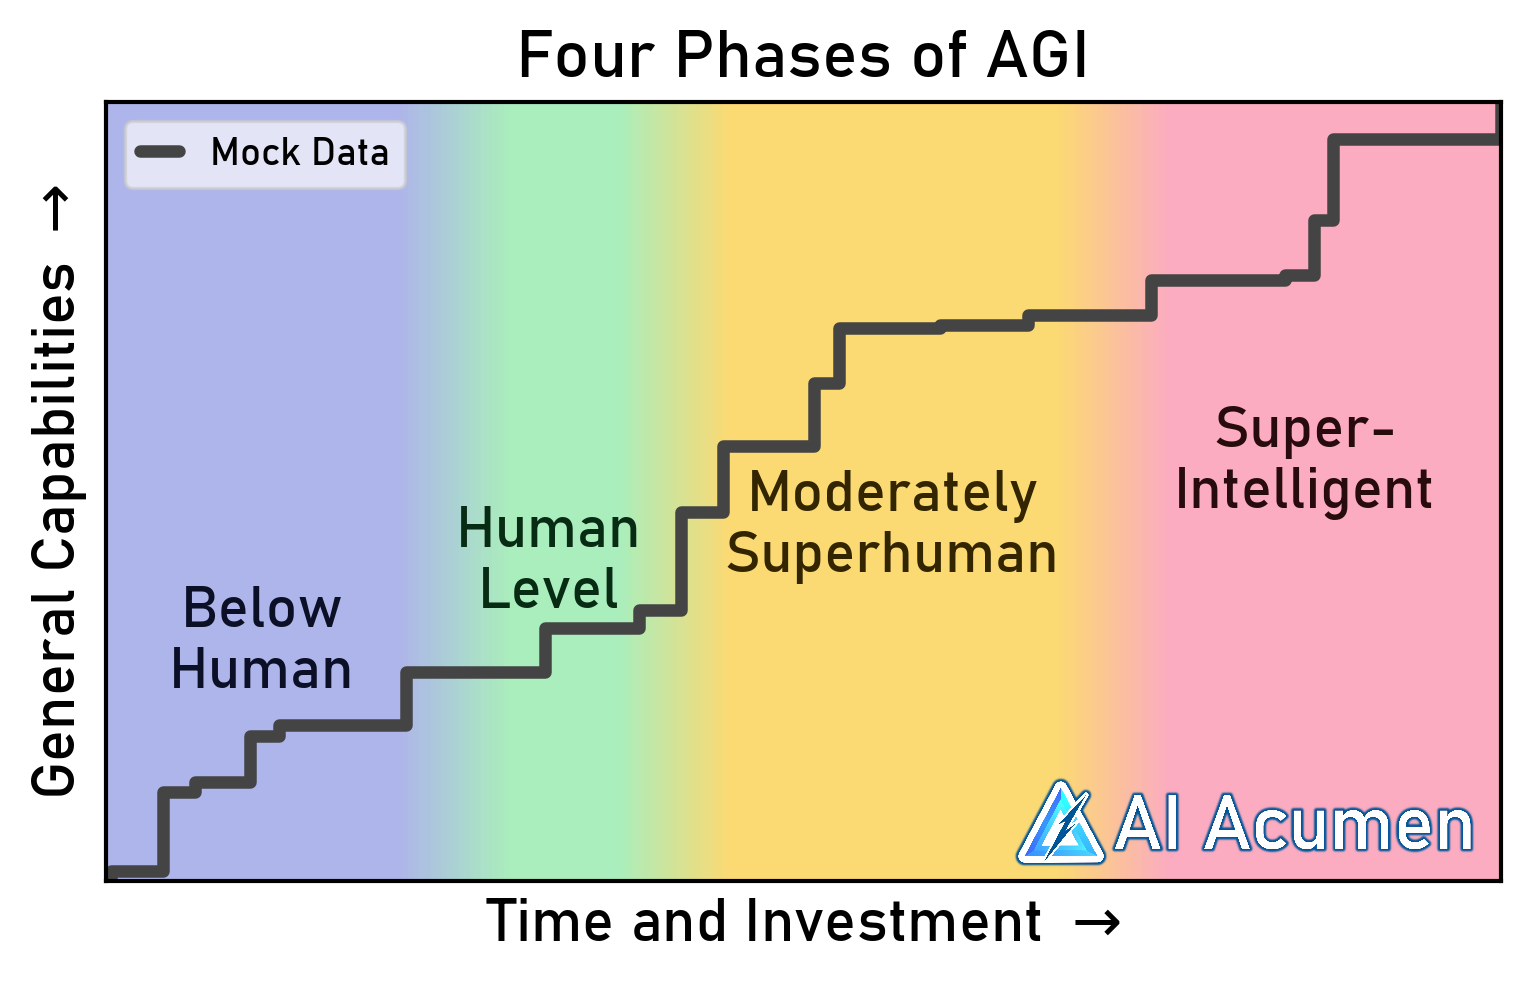
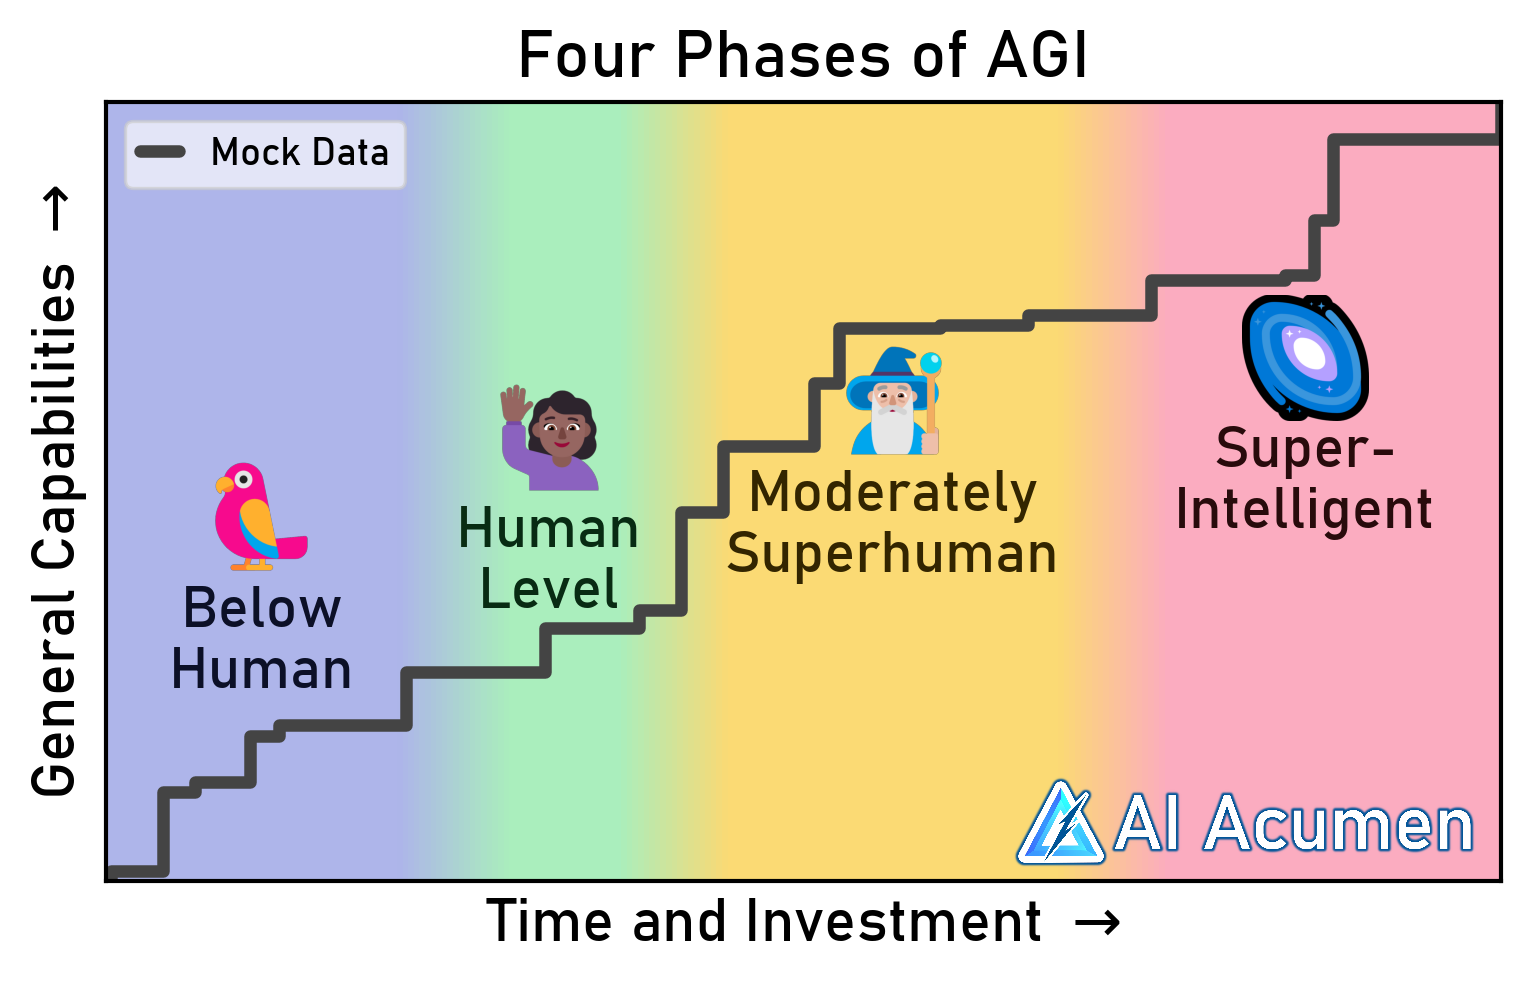
Add emojis to the AGI graph

diff --git a/Graphs/four_phases_of_agi.py b/Graphs/four_phases_of_agi.py
@@ -32,12 +32,22 @@ def main() -> None:
     phase_colors = ["#AEB5EA", "#AAEEBD", "#FBDA74", "#FBACC0"]
     # https://coolors.co/0c1027-082b13-332500-280b0c
     text_colors = ["#0C1027", "#082B13", "#332500", "#280B0C"]
+    phase_emoji_paths = [
+        "Resources/emoji_msft/parrot.png",
+        "Resources/emoji_msft/woman-raising-hand-medium-dark-skin-tone.png",
+        "Resources/emoji_msft/man-mage-medium-light-skin-tone.png",
+        "Resources/emoji_msft/milky-way-10th-anniversary.png",
+    ]
+    emoji_size = 0.125
+    emoji_y_offset = 0.25
     phase_widths = [2.25, 1.25, 2.5, 2.25]
-    phase_label_heights = [0.325, 0.425, 0.47, 0.55]
+    phase_label_heights = [0.325, 0.425, 0.47, 0.525]
     phase_label_x_offsets = [0, -0.1, 0, 0]
     solid_fraction = 0.75  # Fraction of each band that should be solid color
 
-    plt.figure(figsize=chart_utils.FIGSIZE_DEFAULT)
+    fig = plt.figure(figsize=chart_utils.FIGSIZE_DEFAULT)
+    fig_width = fig.get_window_extent().width
+    fig_height = fig.get_window_extent().height
 
     # Generate capabilities progress line
     np.random.seed(65)
@@ -69,23 +79,6 @@ def main() -> None:
     gradient = np.vstack((gradient, gradient))
     extent = [0, total_width, 0, max(y)]
     plt.imshow(gradient, aspect="auto", cmap=modified_cmap, extent=extent)
-
-    # Draw labels over the bands
-    start = 0
-    for i, (width, phase) in enumerate(zip(phase_widths, phase_names)):
-        xpos = start + width / 2 + phase_label_x_offsets[i]
-        ypos = max(y) * phase_label_heights[i]
-        plt.text(
-            xpos,
-            ypos,
-            phase,
-            ha="center",
-            va="center",
-            fontsize=chart_utils.LABELSIZE_DEFAULT,
-            color=text_colors[i],
-            fontweight="bold",
-        )
-        start += width
 
     # Plot the capabilities progress line
     plt.step(x, y, where="post", linewidth=3, color="#444", label="Mock Data")
@@ -122,6 +115,42 @@ def main() -> None:
     ab = AnnotationBbox(oi, (image_center_x, image_center_y), frameon=False)
     ax = plt.gca()
     ax.add_artist(ab)
+
+    # Draw labels over the bands
+    start = 0
+    for i, (width, phase) in enumerate(zip(phase_widths, phase_names)):
+        xpos = start + width / 2 + phase_label_x_offsets[i]
+        ypos = max(y) * phase_label_heights[i]
+        plt.text(
+            xpos,
+            ypos,
+            phase,
+            ha="center",
+            va="center",
+            fontsize=chart_utils.LABELSIZE_DEFAULT,
+            color=text_colors[i],
+            fontweight="bold",
+        )
+        start += width
+
+    # Emojis too
+    start = 0
+    for i, (width, phase) in enumerate(zip(phase_widths, phase_names)):
+        xpos = start + width / 2 + phase_label_x_offsets[i]
+        ypos = max(y) * phase_label_heights[i] + emoji_y_offset
+        start += width
+        loc = ax.transData.transform((xpos, ypos))
+        emoji_axis = fig.add_axes(
+            [
+                loc[0] / fig_width - emoji_size / 2,
+                loc[1] / fig_height - emoji_size / 2,
+                emoji_size,
+                emoji_size,
+            ],
+            anchor="C",
+        )
+        emoji_axis.imshow(plt.imread(phase_emoji_paths[i]))
+        emoji_axis.axis("off")
 
     chart_utils.save_plot("four_phases_of_agi.png")
 
